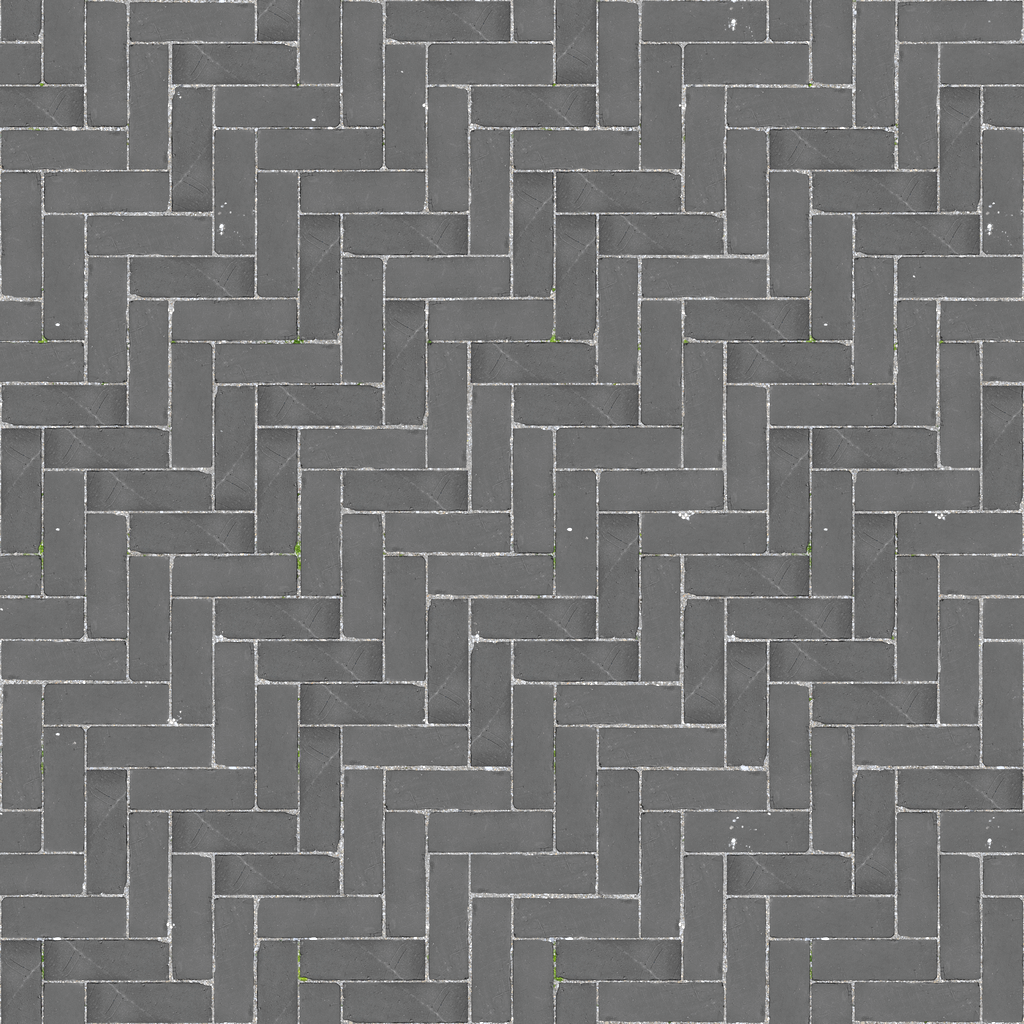
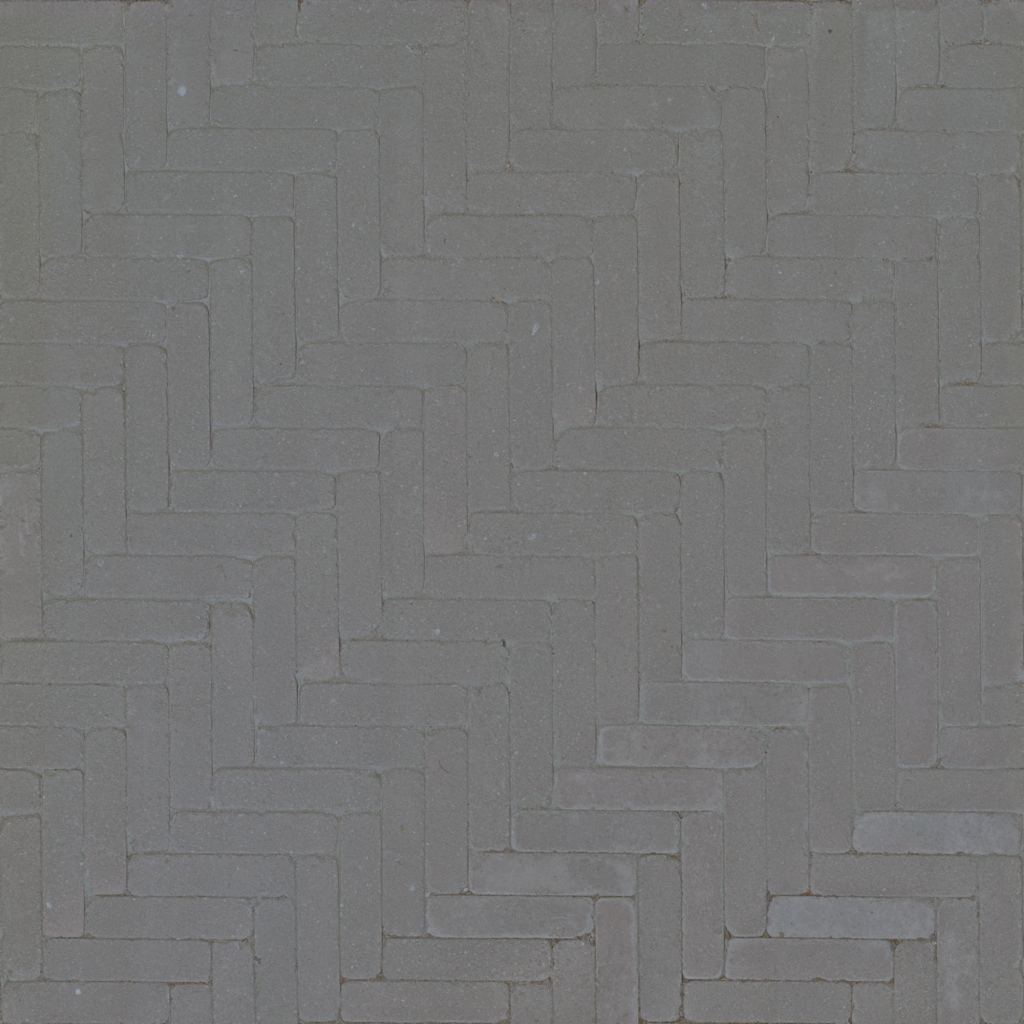
docs(pbr): wave 29 pack progress, known issues; coarser herringbone source

diff --git a/docs/KNOWN_ISSUES.md b/docs/KNOWN_ISSUES.md
@@ -30,6 +30,7 @@
 - **RT horizon frame rate (wave 28, NONCANONICAL):** GI and glossy-reflection rays started from blended alpha-tested draws (foliage, grass) skip the alpha test, so neighbouring leaf and blade quads occlude them as whole quads. Sun rays keep the test. Crops matched at the noise floor, but a very sparse leaf texture right next to a lit surface could now darken its GI slightly. Looking at the horizon is still about 2× the default view in RT faithful: hidden layers of blended foliage are still shaded, because blended draws do not write depth, and GI from far opaque surfaces is incoherent. A depth prepass for blended draws would save another 1.3–6.6 ms but changes tree trunks that show their inner faces today; an exact version needs a draw-order owner buffer (`analysis/porting-wave28/Horizon/`).
 - **Sparse far indirect (wave 28, NONCANONICAL, Vulkan RT with the guided denoiser):** beyond view depth 100, GI and glossy-reflection rays are traced once per 16 frames per pixel; the resolve fills the gaps from neighbours and history. Pixels without resolved history (seabed seen through the water, disocclusions) still trace every frame. Converged static images match at the run-to-run noise floor. Far indirect light now reacts more slowly: a far moving caster's indirect shadow or a sudden far lighting change takes up to 16× more frames to settle. Layers under semi-transparent foliage use the reprojected previous estimate in their raw colour, which is wrong at reprojection edges. Frame-generation GPU timings were not measured reliably on the 60 Hz private compositor. `IKV_RT_SPARSE_GI=0` restores full tracing.
 - **GL/Vulkan fog parity (wave 28, NONCANONICAL, enhanced appearance):** enhanced GL now applies the record fog and tonemaps its backdrop and sky domes like Vulkan, so enhanced GL far land is as white-hazed as Vulkan's and the original's (by design: the record fog, not the weather) and its skyless-zone sky is brighter than before. Residual GL vs Vulkan difference: alpha-blended tree canopies are blended in display space on GL and in linear HDR on Vulkan (Eminönü park canopy up to ~10 luma lighter on Vulkan), as with particles. Only Sivri Ada and the Eminönü park were captured. `analysis/porting-wave28/Fog/`.
+- **PBR texture pack (wave 29, NONCANONICAL, enhanced appearance only):** surfaces mapped to a family material show the CC0 pack's pattern, not the original's: cobbles, slabs, bricks and planks keep each surface's original brightness and hue (blurred original × detail-normalised pack albedo) but the stone/brick/plank layout, joint widths and feature size come from the pack (tread-plate diamonds are ~3× finer than the originals, the herringbone runs diagonally; hexagon paving is tiled 2×2 to match). The pack's planks run horizontally in texture space, so vertically authored plank textures were moved to micro-detail instead. 76 of the 503 eligible keys stay unmapped (signs, posters, clothes, foliage, weapons, books, cables, placeholders); 301 atlas keys get only world-space micro normal/roughness detail with the original albedo. Height is a 512² 16-bit map, so tessellated cobbles are soft at close range. Families were classified by eye from contact sheets; misclassified keys are fixed by editing `assets/pbr/manifest.json` (`tools/pbr_pack.py preview` shows each family against its originals).
 - **Admin preset kits (wave 26, NONCANONICAL):** the best equipment/potion sets are chosen from catalogue stats (armour, weapon mean damage per attack time, heal/Kudret amount) for the class, sex and level; they ignore Efsun prefixes, set bonuses and lonca-only items, and some slots (often head at low levels) have no fitting item.
 - **Admin player management (wave 26, NONCANONICAL):** item/Para/XP grants, item removal and heal reach only characters online in the world; offline characters are refused (`offline`), and editing a saved state offline is not offered. Commands sent from the in-game Yönetici Paneli go to the world directly, so they appear in the world action log and the admin's own `admin_result`, not in the auth `audit_events` table (web commands are audited as `world.<command>`).
 - **Parties (wave 15):** groups are still in-memory only (lost on world restart). Cross-zone invites are NONCANONICAL. A party formed across instance copies is not merged until members re-enter through a door. Phasing is not implemented.

diff --git a/docs/PROGRESS.md b/docs/PROGRESS.md
@@ -233,6 +233,15 @@ User request: the same water as the Tomb Raider: Underworld port (`/mnt/1st4TB/P
 
 Verification: `build-full`, `build-gl-only` **19/19** (100.4 s / 98.6 s) and `build-full-sanitized` **19/19** alone with `--parallel 1` (337.4 s), all three warning-free; RT smoke **5/5** ok (`analysis/porting-wave23/Verify/rt-smoke/`); signed Qt launcher smoke (Vulkan ½ scale, enhanced, RT required) PASSED (`analysis/porting-wave23/Verify/launcher-vulkan-half/`); `build-release` rebuilt. In-game play-testing of the new water is left to the user. The historical sanitizer shutdown timeout stays open.
 
+## 2026-11-13 wave 29
+
+### PBR texture pack (`assets/pbr`, NONCANONICAL, enhanced appearance only)
+
+- **Pack:** 34 materials converted from CC0 ambientCG 1K-PNG sets (no original content and nothing derived from it): `albedo.png` (1024, *detail-normalised*: neutral mean, mean linear luminance 0.18, so the renderer multiplies it by the blurred original diffuse / 0.18 and every surface keeps its original brightness and hue), `normal.png` (1024, OpenGL +Y), `orm.png` (512, AO/roughness/metalness) and a 16-bit `height.png` (512) only where `tessellate`/`parallax` is set. 143 MB. Sources and licence per material: `assets/pbr/SOURCES.md`.
+- **Mapping:** `assets/pbr/manifest.json` maps **427 of the 503** keys the renderer accepts (`ikv-assets pbr-keys`: water, ocean, sky, actors, cut-out, blended and environment-mapped materials excluded). 126 tiling surfaces (cobbles, paving, flagstones, bricks, stone blocks, rubble walls, plaster, concrete, marble, roof tiles, planks, dirt, cracked mud, grass, moss, sand, gravel, rock, bark, painted/rusty/tread metal, fabric) take a full family material at the original UV (`scale` null). 301 atlas keys (facades, monuments, machines, crates, boulders) take a world-space micro-detail material (`micro_plaster/stone/wood/metal/rock`: normal + ORM only, original albedo kept, `tint_keep_original` 1). Tessellation only for ground cobbles, paving, flagstones, roof tiles, dirt, gravel and rock. Families were chosen by looking at contact sheets of every original texture (`tools/pbr_pack.py sheets`/`preview`), then remapped after preview review (hieroglyph and banded walls, vertical planks, atlas-like floors moved to micro-detail).
+- **Tool:** `tools/pbr_pack.py` (`inventory`, `sheets`, `preview` read the original installation read-only; `build` downloads the ambientCG ZIPs into `~/.cache/ikv-pbr` and regenerates every image and `SOURCES.md` from `assets/pbr/sources.json` + `manifest.json`; `check` validates names, sizes, keys and reports the size). `.gitignore` now tracks `assets/pbr/` while still ignoring the rest of `assets/`.
+- **Coverage by zone (mapped keys / eligible, placements):** Eminönü 24/30 (3404/4109), Mısır Çarşısı 6/10 (2244/2263), Topkapı 41/45 (336/366), Sivri Ada 15/19 (3425/4016); all zones in `analysis/porting-wave29/PbrTextures/coverage.txt`. Unmapped: signs, posters, characters' clothes, foliage, weapons, books, cables, ropes, cocoons, mushrooms, flat untextured placeholders.
+
 ## 2026-11-13 wave 28 (0.14.0): wind-shaped sea, sparse puddles, footsteps in puddles and snow, dripping characters, horizon frame rate
 
 User requests: the sea must change shape in strong wind and calm down without wind; puddles were far too widespread and walking through them caused nothing; rain should drip off characters; characters should leave footprints only where there is snow. Three parallel slices (surfaces, character effects, sea) on a shared `renderer.hpp` contract (`GroundMark`, `kMaxGroundMarks`, `weather_puddle` CPU mirror), integrated on main with the client wiring `effects_->set_weather_props(...)` and `renderer_->set_ground_marks(effects_->ground_marks())`. Client-only: no server, database or wire change. All NONCANONICAL, enhanced appearance only; inactive weather, original appearance and roofed zones keep the exact pre-wave paths.

diff --git a/assets/pbr/SOURCES.md b/assets/pbr/SOURCES.md
@@ -29,7 +29,7 @@ No original game content is included or derived; original textures only select t
 | micro_stone | [ambientCG Rock023](https://ambientcg.com/view?id=Rock023) | CC0 1.0 | normal, orm | 48 |
 | micro_wood | [ambientCG Wood049](https://ambientcg.com/view?id=Wood049) | CC0 1.0 | normal, orm | 28 |
 | moss | [ambientCG Ground037](https://ambientcg.com/view?id=Ground037) | CC0 1.0 | albedo, height, normal, orm | 2 |
-| paving_herringbone | [ambientCG PavingStones098](https://ambientcg.com/view?id=PavingStones098) | CC0 1.0 | albedo, height, normal, orm | 1 |
+| paving_herringbone | [ambientCG PavingStones052](https://ambientcg.com/view?id=PavingStones052) | CC0 1.0 | albedo, height, normal, orm | 1 |
 | paving_hex | [ambientCG PavingStones075](https://ambientcg.com/view?id=PavingStones075) | CC0 1.0 | albedo, height, normal, orm | 2 |
 | paving_mossy | [ambientCG PavingStones082](https://ambientcg.com/view?id=PavingStones082) | CC0 1.0 | albedo, height, normal, orm | 2 |
 | paving_slab | [ambientCG PavingStones112](https://ambientcg.com/view?id=PavingStones112) | CC0 1.0 | albedo, height, normal, orm | 11 |
